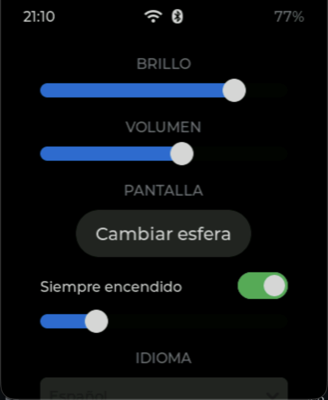
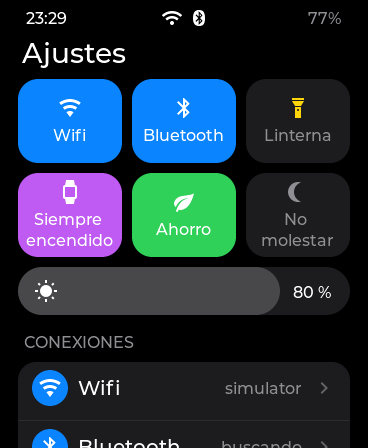
docs: the new Settings in the README, the CHANGELOG and PORTAL.md, with captures in three languages

diff --git a/README.md b/README.md
@@ -111,6 +111,16 @@ never look like an app, and they open in the launcher's own style. There is
 room for 256 apps, and the launcher shows its first screen in under 200 ms
 even then. See [docs/MENU.md](docs/MENU.md).
 
+**Settings, one page per category.** The first page is six quick tiles
+(Wi-Fi, Bluetooth, flashlight, always-on, power saver, do not disturb), the
+brightness, and the categories with their current value; each category opens
+as a page of its own. The screen timeouts are settings now, and the menu and
+About pages carry a QR to the portal.
+
+| Display | Menu | Power |
+|---|---|---|
+| <img src="docs/img/settings-display.png" width="220"> | <img src="docs/img/settings-menu.png" width="220"> | <img src="docs/img/settings-power.png" width="220"> |
+
 | Menu with folders | A folder | The honeycomb |
 |---|---|---|
 | <img src="docs/img/menu-list.png" width="220"> | <img src="docs/img/menu-folder.png" width="220"> | <img src="docs/img/menu-honeycomb.png" width="220"> |
@@ -137,7 +147,7 @@ Twenty-one ship inside the binary. They are the ones the watch cannot be without
 | <img src="docs/img/int-calendar.png" width="200"><br>**Calendario** — the month, drawn with the week starting on Monday. | <img src="docs/img/int-notifs.png" width="200"><br>**Notificaciones** — the iPhone's, over ANCS: history, per-category filter and actions. | <img src="docs/img/int-btremote.png" width="200"><br>**Control BT** — the phone's music over AMS: title, artist, album and transport. |
 | <img src="docs/img/int-music.png" width="200"><br>**Música** — plays WAV from the card through the ES8311 codec. | <img src="docs/img/int-photos.png" width="200"><br>**Fotos** — JPEG, PNG and BMP from the card, decoded and scaled to the screen. | <img src="docs/img/int-flashlight.png" width="200"><br>**Linterna** — the panel at full white, which on an AMOLED is the only way to make light. |
 | <img src="docs/img/int-level.png" width="200"><br>**Nivel** — a spirit level off the accelerometer, with the bubble and the angle in degrees. | <img src="docs/img/int-calc.png" width="200"><br>**Calculadora** — four operations, sized for a thumb rather than for density. | <img src="docs/img/int-convert.png" width="200"><br>**Conversor** — units across several families, with the keypad shared with the calculator. |
-| <img src="docs/img/int-battery.png" width="200"><br>**Batería** — what the AXP2101 reports: charge, voltage and whether it is charging. | <img src="docs/img/app-life.png" width="200"><br>**Vida** — Conway's Game of Life and Langton's ant on a 92x92 grid. | <img src="docs/img/settings-en.png" width="200"><br>**Ajustes** — brightness, always-on, language, wifi, bluetooth, watchface and the touch calibration. |
+| <img src="docs/img/int-battery.png" width="200"><br>**Batería** — what the AXP2101 reports: charge, voltage and whether it is charging. | <img src="docs/img/app-life.png" width="200"><br>**Vida** — Conway's Game of Life and Langton's ant on a 92x92 grid. | <img src="docs/img/settings-en.png" width="200"><br>**Ajustes** — six quick tiles and the brightness up top, then a page per category: display and its timeouts, sound, notifications and do-not-disturb, menu style, time, language, power, touch, about. |
 | <img src="docs/img/usb-pcremote-keys.png" width="200"><br>**Control PC** — the watch as a keyboard with media keys, a mouse, a gamepad and a MIDI port for the computer on the USB cable, one screen per role. | <img src="docs/img/usb-pato-list.png" width="200"><br>**Pato goma** — runs keyboard-and-mouse scripts on the computer, DuckyScript-style, picked and confirmed on the watch and edited from the portal's `/pato` page. | <img src="docs/img/int-link.png" width="200"><br>**Enlace** — the other watches around, and the one this is paired with. Pairing is bumping the two watches together. See [Two watches](#two-watches). |
 
 ### Loaded from the microSD

diff --git a/docs/PORTAL.md b/docs/PORTAL.md
@@ -10,7 +10,7 @@ shared script, and `aos_web.c` with the handlers.
 | URL | What it is |
 |---|---|
 | `/` | **Home.** Battery, network, memory and system cards fed by `/api/status`; wake / screen off / sync time / restart; the firmware (OTA) upload. |
-| `/ajustes` | **Settings.** The watch's name first (what answers as `<name>.local`, shown next to the logo and in the tab so two watches on one network are told apart; lowercase letters, digits and hyphens), then the same controls as the watch's Settings app: brightness, watchface, launcher style, always-on and its brightness, volume, the four power switches, time zone, set the time, language, wifi / Bluetooth, notifications. Each control applies on release. |
+| `/ajustes` | **Settings.** The watch's name first (what answers as `<name>.local`, shown next to the logo and in the tab so two watches on one network are told apart; lowercase letters, digits and hyphens), then the same controls as the watch's Settings app: brightness, watchface, launcher style, always-on and its brightness, volume, the four power switches, time zone, set the time, language, wifi / Bluetooth, notifications. The two screen timeouts (dims after, turns off after) and "do not disturb" match the watch's Settings > Display and Notifications. Each control applies on release. |
 | `/alarmas` | **Alarms.** The six slots of the Alarms app: time, on/off, the days of the week (with weekdays / weekend / every day shortcuts), delete, add. A change is stored in NVS and the alarm service reloads on its next tick, redrawing the app if it is open. |
 | `/pantalla` | **Screen.** A live capture of the panel, with the controls to drive it from the browser: wake, off, back, watchface, menu, a toast, and a button per app to open it. For testing without the watch on the wrist. |
 | `/archivos` | **Files.** The card by folder (apps, photos, music, videos, recordings): upload by drag, download, delete, listen, and a preview for photos. Shows the free space. A fifth tab, **Card**, is an explorer of the whole card: any folder, breadcrumbs, new folder, delete an empty one. |
@@ -36,7 +36,9 @@ Form-encoded bodies for POST, JSON back. Everything the pages use:
 ```
 GET  /api/status                 the whole state; the strip polls it every 15 s
 GET  /api/ajustes                the settings, with the list of watchfaces
-POST /api/ajustes                any subset: nombre brillo volumen aod aod_brillo esfera
+POST /api/ajustes                any subset: nombre brillo volumen aod aod_brillo
+                                 pant_activa aod_dura (screen timeouts, seconds; 0 =
+                                 automatic / never) esfera
                                  menu ahorro cuidar panel_slp chip_slp tz wifi bt
                                  notif notif_sonido llamadas
 POST /api/accion                 que=despertar|apagar|volver|inicio|menu|beep|

diff --git a/CHANGELOG.md b/CHANGELOG.md
@@ -31,6 +31,23 @@ chose, with folders, arranged from the portal's new `/menu` page.
   flooded by the loader.
 - The grid and the honeycomb open at the first row instead of the middle.
 
+**Settings, redesigned.** One page nine screens long became a short first
+page and a page per category.
+
+- **Quick tiles**: Wi-Fi, Bluetooth, Flashlight (opens the app), Always on,
+  Saver and **Do not disturb**, plus the brightness as a pill slider, then
+  twelve categories in three groups, each with its current value.
+- **Display** gets the **screen timeouts**, until now fixed: dims after
+  15 s to 2 min, and once dimmed turns off after 1, 5 or 10 minutes, or
+  never. Also in the portal's `/ajustes`.
+- **Do not disturb** is the notifications switch named for what it does:
+  notifications stay in the list without lighting the screen or sounding,
+  and calls get through with "Calls always".
+- USB and Language are lists with a tick; the menu styles are cards with a
+  sketch; Power explains each switch; About shows the name, the card's
+  usage, a QR to the portal, and restarts on a long press; diagnostics have
+  a page of their own. Icons from Material Design Icons.
+
 ## v0.4.13 — 2026-09-22
 
 **Monster Hop**, a hop-by-hop action game in sixteen levels, with its art
